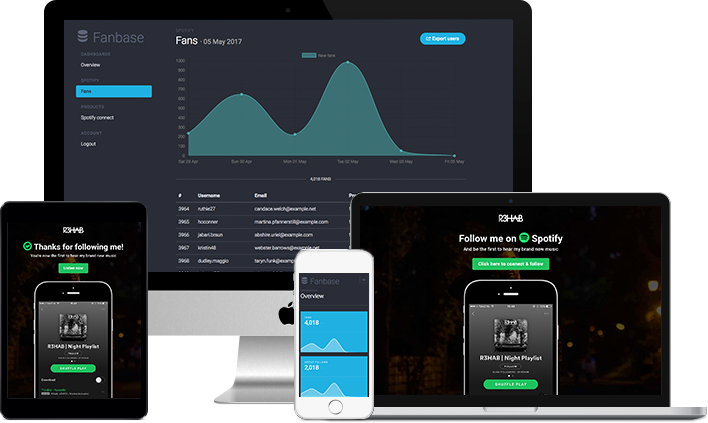
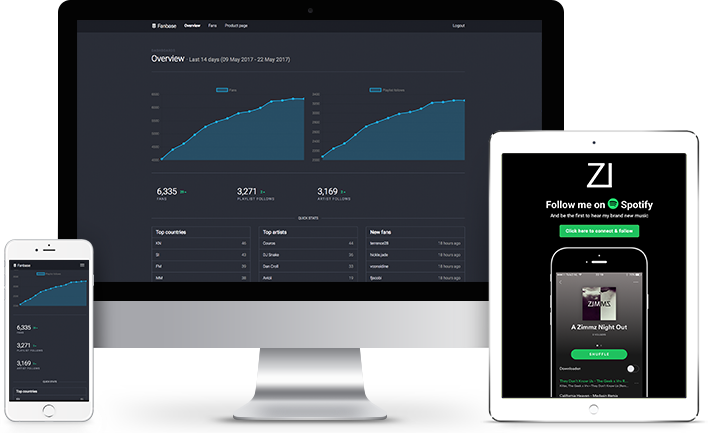
Add product photos

diff --git a/resources/views/products/spotifyfans.blade.php b/resources/views/products/spotifyfans.blade.php
@@ -28,6 +28,12 @@
             <div class="slide">
               <img src="/images/slider/slide4.png" alt="slide" />
             </div>
+            <div class="slide">
+              <img src="/images/slider/slide5.png" alt="slide" />
+            </div>
+            <div class="slide">
+              <img src="/images/slider/slide6.png" alt="slide" />
+            </div>
           </div>
         </div>  
       </div>
